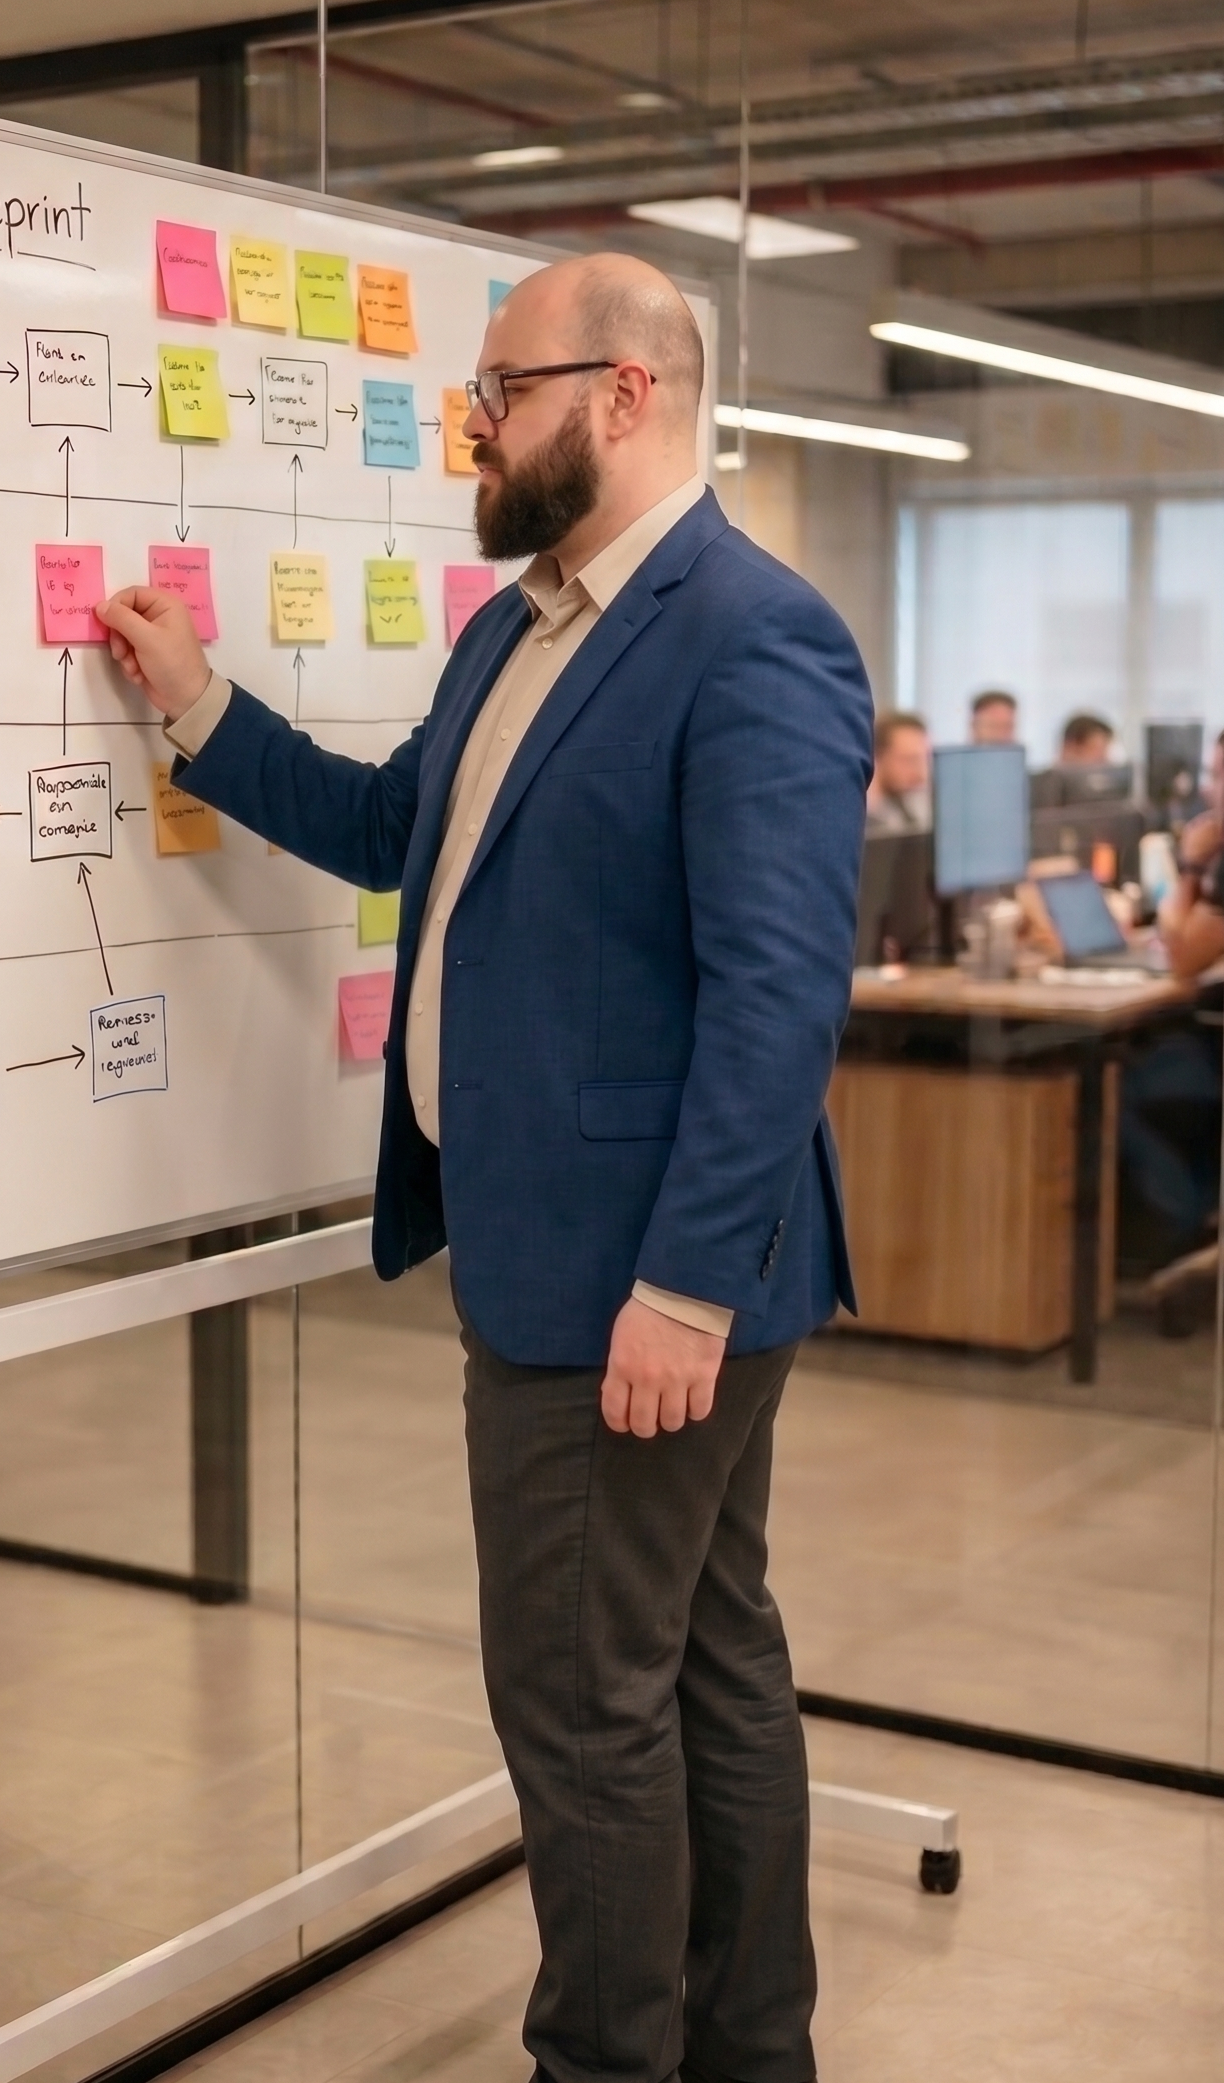
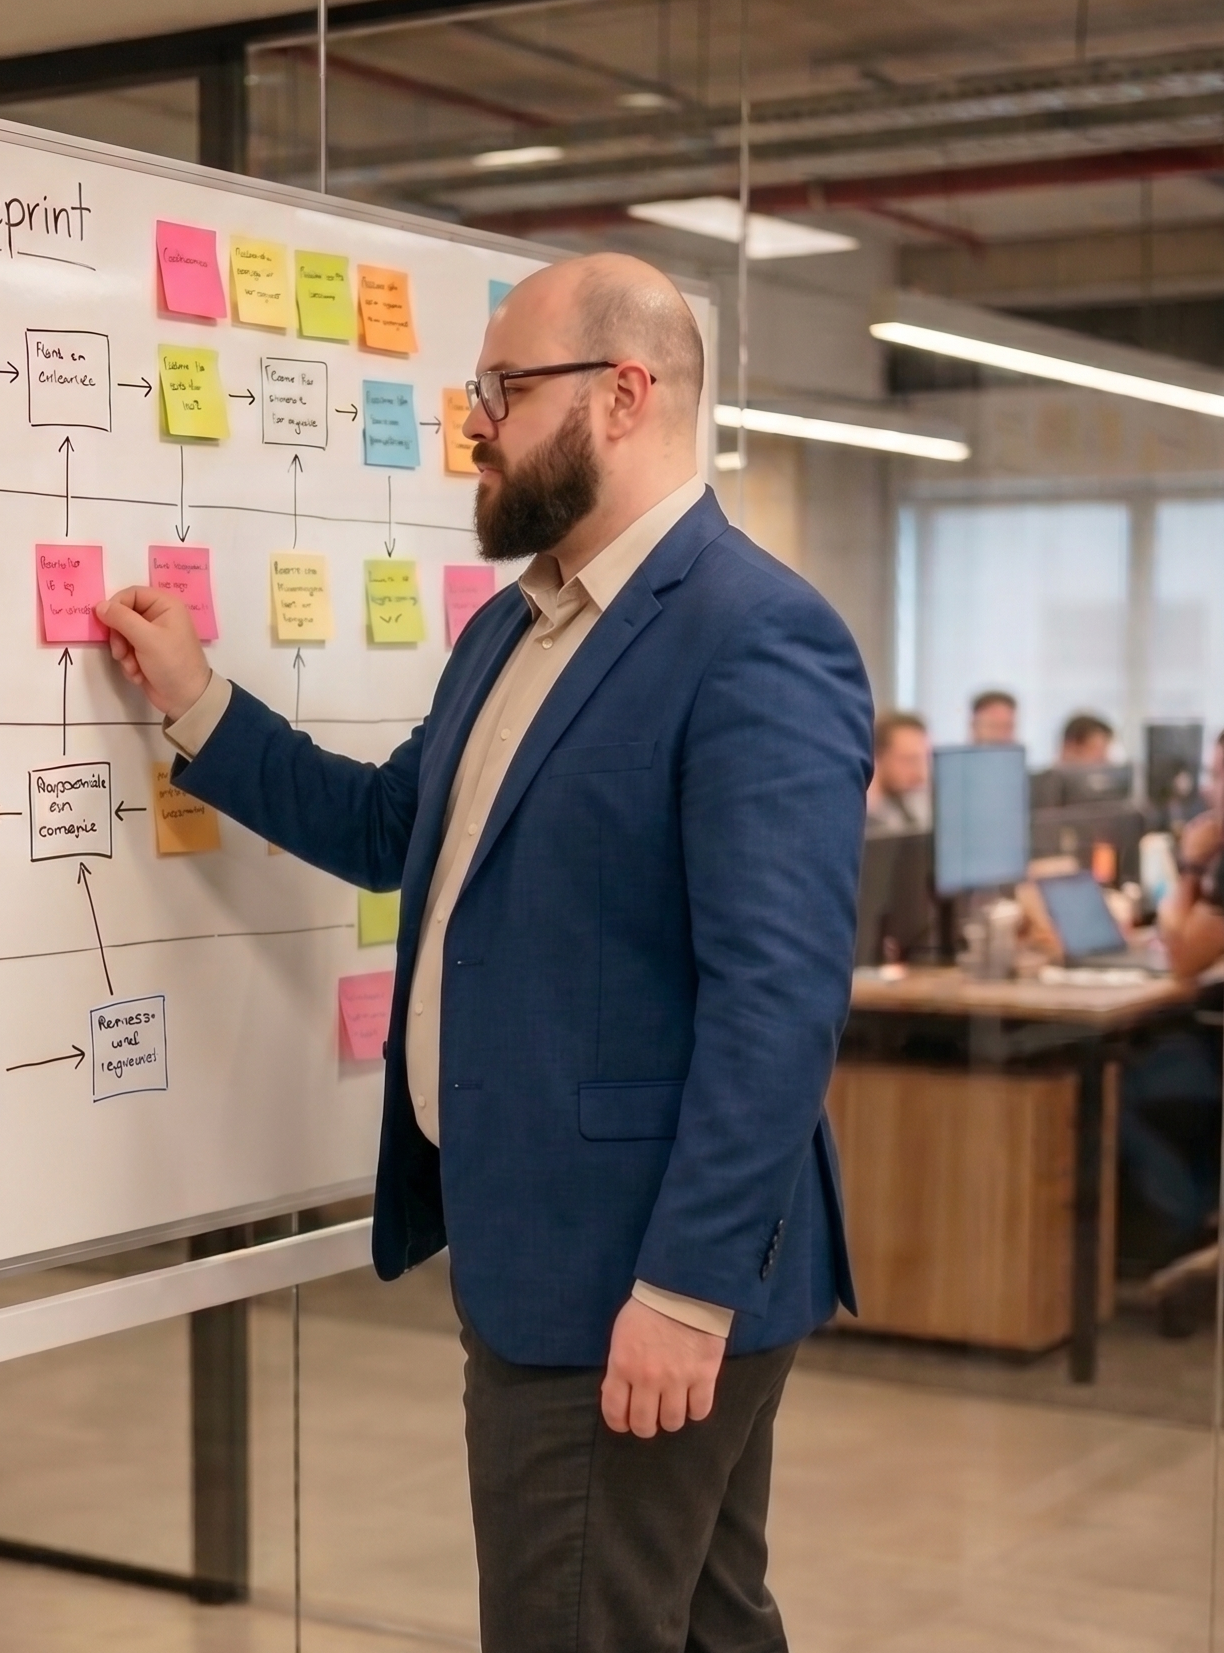
fix: atualiza metricas, imagem carreira e oculta certificacoes
Retentometro 19 porcento para 20 porcento, hero e carreira com novos textos de impacto, secao de certificacoes ocultada temporariamente, foto-carreira-v3 atualizada.

diff --git a/src/components/ProjectModal.tsx b/src/components/ProjectModal.tsx
@@ -89,7 +89,7 @@ const bradesco: Record<Lang, {
   pt: {
     stats: [
       { value: "D+7 > D+0", label: "Dias de espera para resposta o time Bradesco" },
-      { value: "+19%",       label: "Na Reversão de Cancelamento" },
+      { value: "+20%",       label: "Na Reversão de Cancelamento" },
       { value: "-42%",       label: "No retrabalho do Setor" },
     ],
     strategyIntro: "O desafio era transformar um processo Enterprise complexo em algo eficiente. Estruturei o processo de design para garantir a entrega de valor contínuo:",
@@ -104,7 +104,7 @@ const bradesco: Record<Lang, {
     resultsIntro: "O Discovery técnico e o design focado em automação, não entregamos apenas telas, mas uma nova capacidade operacional para a Bradesco Seguros. A transição do caos das planilhas para a precisão do Salesforce via Mulesoft permitiu que o time de retenção agisse com a velocidade que o mercado Enterprise exige.",
     results: [
       { highlight: "Eficiência de Tempo:", text: "Redução drástica de 7 dias de espera para 0 dias. Eliminamos a 'janela da angústia' do cliente B2B, permitindo que a contraproposta fosse gerada instantaneamente, capturando o cliente no momento crítico da decisão." },
-      { highlight: "Conversão de Negócio:", text: "Aumento de 19% na Reversão de Cancelamentos. Este número prova que o design não foi apenas estético. Ao reduzir a fricção e o tempo de resposta, impactamos diretamente o OKR principal do projeto, recuperando receita de forma proativa." },
+      { highlight: "Conversão de Negócio:", text: "Aumento de 20% na Reversão de Cancelamentos. Este número prova que o design não foi apenas estético. Ao reduzir a fricção e o tempo de resposta, impactamos diretamente o OKR principal do projeto, recuperando receita de forma proativa." },
       { highlight: "Otimização Operacional:", text: "Redução de 42% no Retrabalho do Setor. Liderei o design focado em usabilidade e adoção rápida. Ao eliminar planilhas e processos manuais morosos, devolvemos quase metade do tempo produtivo da equipe, que agora foca em análises estratégicas, não em tarefas operacionais." },
     ],
     toolkit: [
@@ -118,7 +118,7 @@ const bradesco: Record<Lang, {
   en: {
     stats: [
       { value: "D+7 > D+0", label: "Days of waiting for a response from the Bradesco team" },
-      { value: "+19%",       label: "In Cancellation Reversal" },
+      { value: "+20%",       label: "In Cancellation Reversal" },
       { value: "-42%",       label: "In Sector Rework" },
     ],
     strategyIntro: "The challenge was to transform a complex Enterprise process into something efficient. I structured the design process to ensure continuous value delivery:",
@@ -133,7 +133,7 @@ const bradesco: Record<Lang, {
     resultsIntro: "From the technical Discovery and automation-focused design, we delivered not just screens but a new operational capability for Bradesco Seguros. The transition from spreadsheet chaos to Salesforce precision via Mulesoft allowed the retention team to act at the speed the Enterprise market demands.",
     results: [
       { highlight: "Time Efficiency:", text: "Drastic reduction from 7 days of waiting to 0. We eliminated the B2B client's 'anxiety window', allowing the counter-proposal to be generated instantly, capturing the customer at the critical moment of decision." },
-      { highlight: "Business Conversion:", text: "19% increase in Cancellation Reversals. This number proves the design wasn't merely aesthetic. By reducing friction and response time, we directly impacted the project's main OKR, proactively recovering revenue." },
+      { highlight: "Business Conversion:", text: "20% increase in Cancellation Reversals. This number proves the design wasn't merely aesthetic. By reducing friction and response time, we directly impacted the project's main OKR, proactively recovering revenue." },
       { highlight: "Operational Optimisation:", text: "42% reduction in Sector Rework. I led design focused on usability and rapid adoption. By eliminating slow spreadsheets and manual processes, we gave back nearly half the team's productive time, which now focuses on strategic analysis rather than operational tasks." },
     ],
     toolkit: [

diff --git a/src/lib/i18n.tsx b/src/lib/i18n.tsx
@@ -104,7 +104,7 @@ const translations: Record<Lang, Translations> = {
       stats: [
         { value: "10+", label: "Anos de\nExperiência" },
         { value: "20+", label: "Projetos\nEnterprise" },
-        { highlight: "+35% de Arrecadação\n-30% de Custo de Operação", items: ["Eficiência e Impacto real"] },
+        { highlight: "+20% reversão de cancelamentos\n-20% de Retrabalho (Design Ops)", items: ["Eficiência e Impacto real"] },
       ],
       companiesTitle: "Empresas que eu trabalhei",
       companies: [
@@ -129,7 +129,7 @@ const translations: Record<Lang, Translations> = {
       ],
       numbersTitle: "Alguns números que me orgulho:",
       numbers: [
-        "Redução de 30% no custo de operações por retrabalho através de Design Ops e Systems.",
+        "Redução de 20% de retrabalho através de Design Ops e Systems.",
         "Otimização de fluxos críticos de D+7 para D+0 (aumento de 20% em conversão).",
         "Redução de 25% no volume de chamados via automação inteligente (Nível 1).",
       ],
@@ -212,7 +212,7 @@ const translations: Record<Lang, Translations> = {
       stats: [
         { value: "10+", label: "Years of\nExperience" },
         { value: "20+", label: "Enterprise\nProjects" },
-        { highlight: "+35% Revenue Growth\n-30% Operating Cost", items: ["Efficiency & Real Impact"] },
+        { highlight: "+35% Revenue Growth\n-20% Rework (Design Ops)", items: ["Efficiency & Real Impact"] },
       ],
       companiesTitle: "Companies I've worked with",
       companies: [
@@ -237,7 +237,7 @@ const translations: Record<Lang, Translations> = {
       ],
       numbersTitle: "Numbers I'm proud of:",
       numbers: [
-        "30% reduction in rework through Design Ops and Systems.",
+        "20% reduction in rework through Design Ops and Systems.",
         "Optimisation of critical flows from D+7 to D+0 (20% increase in conversion).",
         "25% reduction in support tickets through intelligent automation (Level 1).",
       ],

diff --git a/src/components/BradescoModal.tsx b/src/components/BradescoModal.tsx
@@ -16,7 +16,7 @@ interface Props {
 
 const stats = [
   { value: "D+7 > D+0", label: "Dias de espera para resposta o time Bradesco" },
-  { value: "+19%",      label: "Na Reversão de Cancelamento" },
+  { value: "+20%",      label: "Na Reversão de Cancelamento" },
   { value: "-42%",      label: "No retrabalho do Setor" },
 ];
 
@@ -35,7 +35,7 @@ const results = [
   },
   {
     highlight: "Conversão de Negócio:",
-    text: "Aumento de 19% na Reversão de Cancelamentos. Este número prova que o design não foi apenas estético. Ao reduzir a fricção e o tempo de resposta, impactamos diretamente o OKR principal do projeto, recuperando receita de forma proativa.",
+    text: "Aumento de 20% na Reversão de Cancelamentos. Este número prova que o design não foi apenas estético. Ao reduzir a fricção e o tempo de resposta, impactamos diretamente o OKR principal do projeto, recuperando receita de forma proativa.",
   },
   {
     highlight: "Otimização Operacional:",

diff --git a/src/components/Career.tsx b/src/components/Career.tsx
@@ -96,8 +96,8 @@ export default function Career() {
                 </ul>
               </div>
 
-              {/* Certificações */}
-              <div id="certificacoes" className="pt-4">
+              {/* Certificações — temporariamente oculto */}
+              <div id="certificacoes" className="pt-4 hidden">
                 <h2 className="text-[44px] font-normal text-[#1F2937] mb-8">
                   {career.certsTitle}
                 </h2>